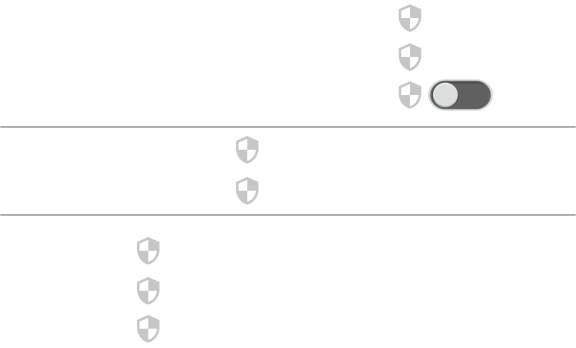
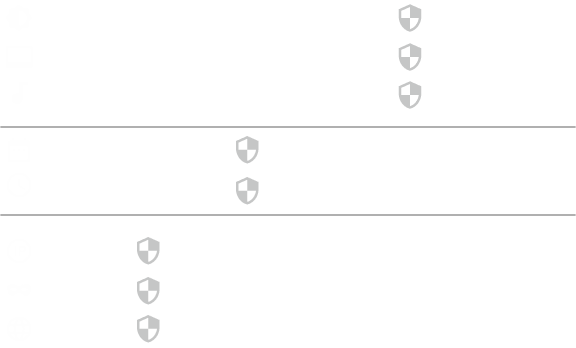
Switch v1

Changed region(s): [[0.7188, 0.2299, 0.875, 0.3161]]

diff --git a/templates/DirectMenu/SettingsPanel.html b/templates/DirectMenu/SettingsPanel.html
@@ -34,6 +34,20 @@ html {
 
 {% block interface %}
 <img src="{{ url_for('static', filename='PanelSettings/interface.png') }}" draggable="false" style="position: absolute; top: 60px; left: 210px;"/>
+<img id="Switch" src="{{ url_for('static', filename='Interactive/Switch-0.png') }}" onclick="changeImage()" style="position: absolute; top: 140px; left: 635px;">
+{% endblock %}
+
+{% block page_script %}
+<script>
+function changeImage() {
+  var image = document.getElementById('Switch');
+  if (image.src.match("/static/Interactive/Switch-0.png")) {
+    image.src = "/static/Interactive/Switch-1.png";
+  } else {
+    image.src = "/static/Interactive/Switch-0.png";
+  }
+}
+</script>
 {% endblock %}
 
 {% block body %}

diff --git a/templates/Base.html b/templates/Base.html
@@ -36,6 +36,7 @@
         {% block buttons %}{% endblock %}
         {% block a %}{% endblock %}
         {% block imgotherbuttons %}{% endblock %}
+
         img {
             pointer-events: none;
         }
@@ -67,6 +68,8 @@
         document.addEventListener('dragstart', function(e) {
             e.preventDefault();
         });
+
     </script>
+    {% block page_script %}{% endblock %}
 </body>
 </html>
